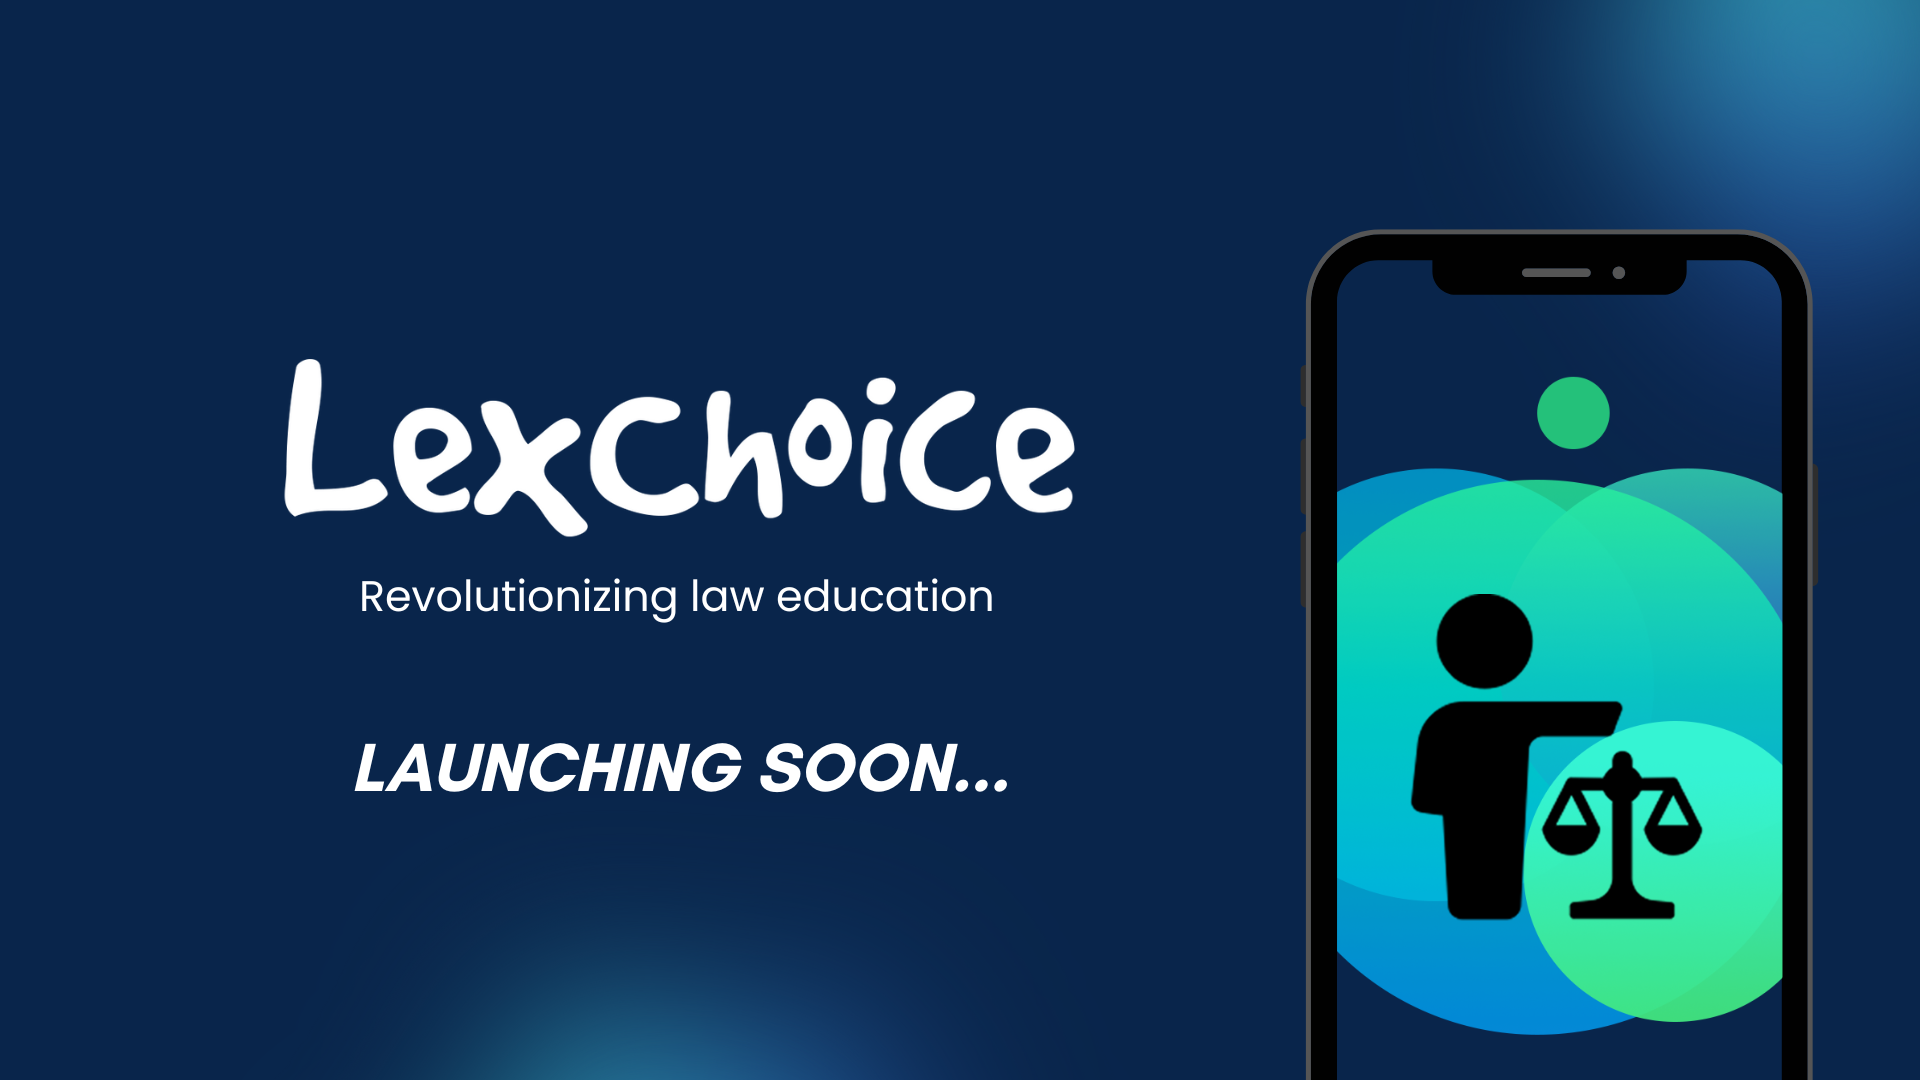
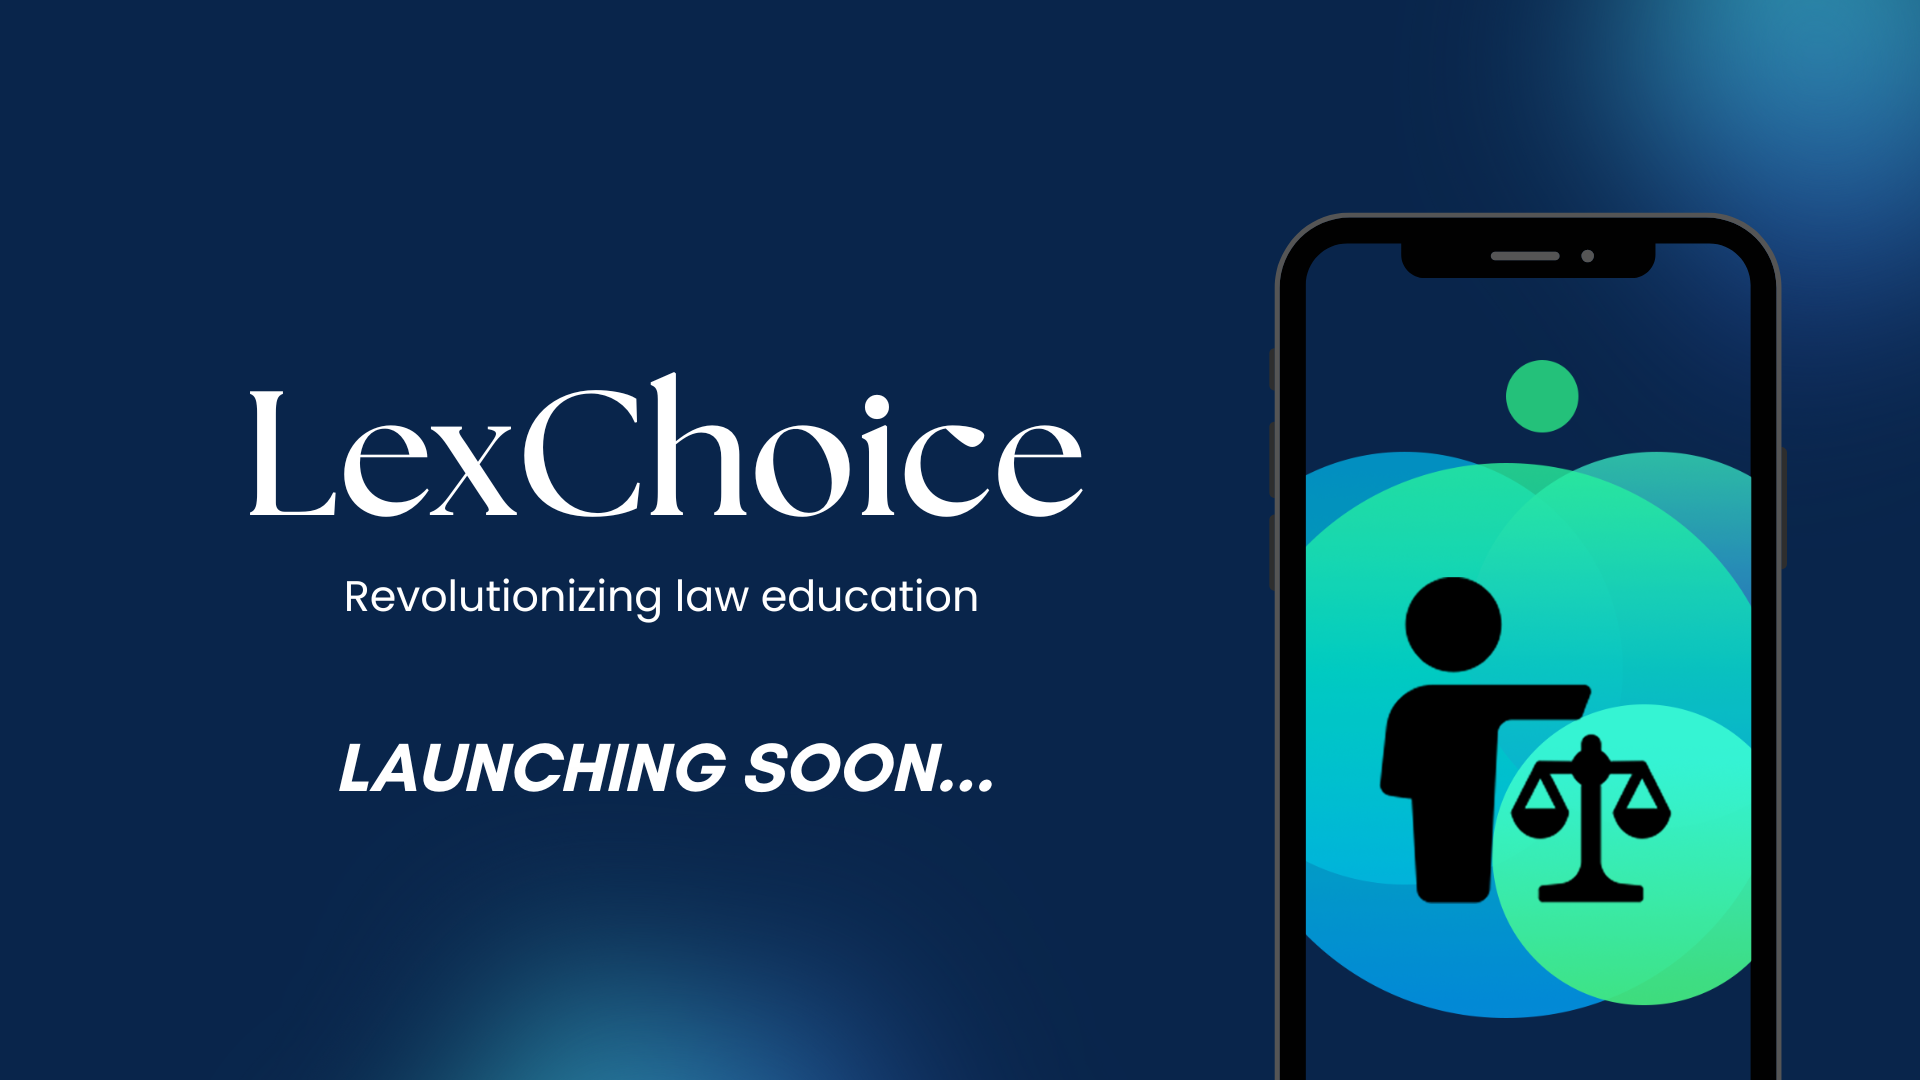
Updated hero image.

Changed region(s): [[0.6562, 0.1833, 0.9688, 1.0], [0.125, 0.3361, 0.5625, 0.5806], [0.1562, 0.6722, 0.5312, 0.7333]]

diff --git a/index.html b/index.html
@@ -7,7 +7,6 @@
     <link href="https://cdnjs.cloudflare.com/ajax/libs/aos/2.3.4/aos.css" rel="stylesheet">
     <link href="https://cdnjs.cloudflare.com/ajax/libs/font-awesome/6.0.0-beta3/css/all.min.css" rel="stylesheet" >
     <link href="https://fonts.googleapis.com/css2?family=Inter:wght@400;500;600;700&display=swap" rel="stylesheet">
-    <link href="https://fonts.googleapis.com/css2?family=Good+Dog&display=swap" rel="stylesheet">
 
     <link rel="stylesheet" href="indexStyles.css">
 </head>
@@ -15,7 +14,7 @@
     <header class="header">
         <nav class="nav">
             <a href="#home" class="logo">
-                <img src="/images/logo_trans.png" alt="LexChoice Logo">
+                <img src="/images/lexchoice_logo.png" alt="LexChoice Logo">
             </a>
             <div class="nav-links">
                 <a href="#about">About</a>
@@ -261,7 +260,7 @@
         </div>
         <!-- Footer Bottom -->
         <div class="footer-bottom">
-          <p>©2025 LexChoice | Designed & Developed by Team LexChoice. | All rights reserved.</p>
+          <p>©2025 LexChoice. All rights reserved.| Designed & Developed by Team LexChoice. </p>
         </div>
       </footer>
 

diff --git a/indexStyles.css b/indexStyles.css
@@ -47,7 +47,7 @@ body {
 }
 
 .logo img {
-  max-height: 85px; /* Adjust as needed */
+  max-height: 70px; /* Adjust as needed */
   width: auto;
   vertical-align: middle;
 }
@@ -169,19 +169,14 @@ body {
 
 .divider-line {
   height: 2px;
-  width: 0;
+  width: 80%; /* Set width permanently */
   background: linear-gradient(
       90deg,
       transparent 0%,
       #09254C 50%,
       transparent 100%
   );
-  transition: width 0.5s ease-in-out;
   position: relative;
-}
-
-.section-divider:hover .divider-line {
-  width: 80%;
 }
 
 .divider-line::before,
@@ -189,14 +184,8 @@ body {
   content: '';
   position: absolute;
   top: 50%;
-  width: 0;
+  width: 40%; /* Set width permanently */
   height: 2px;
-  transition: width 0.5s ease-in-out;
-}
-
-.section-divider:hover .divider-line::before,
-.section-divider:hover .divider-line::after {
-  width: 40%;
 }
 
 /* =========================
@@ -227,7 +216,7 @@ body {
 
 .feature-card h3 {
   font-family: 'Inter', sans-serif;
-  color: #03C988;
+  color: #3d50b9;
 }
 
 /* =========================
